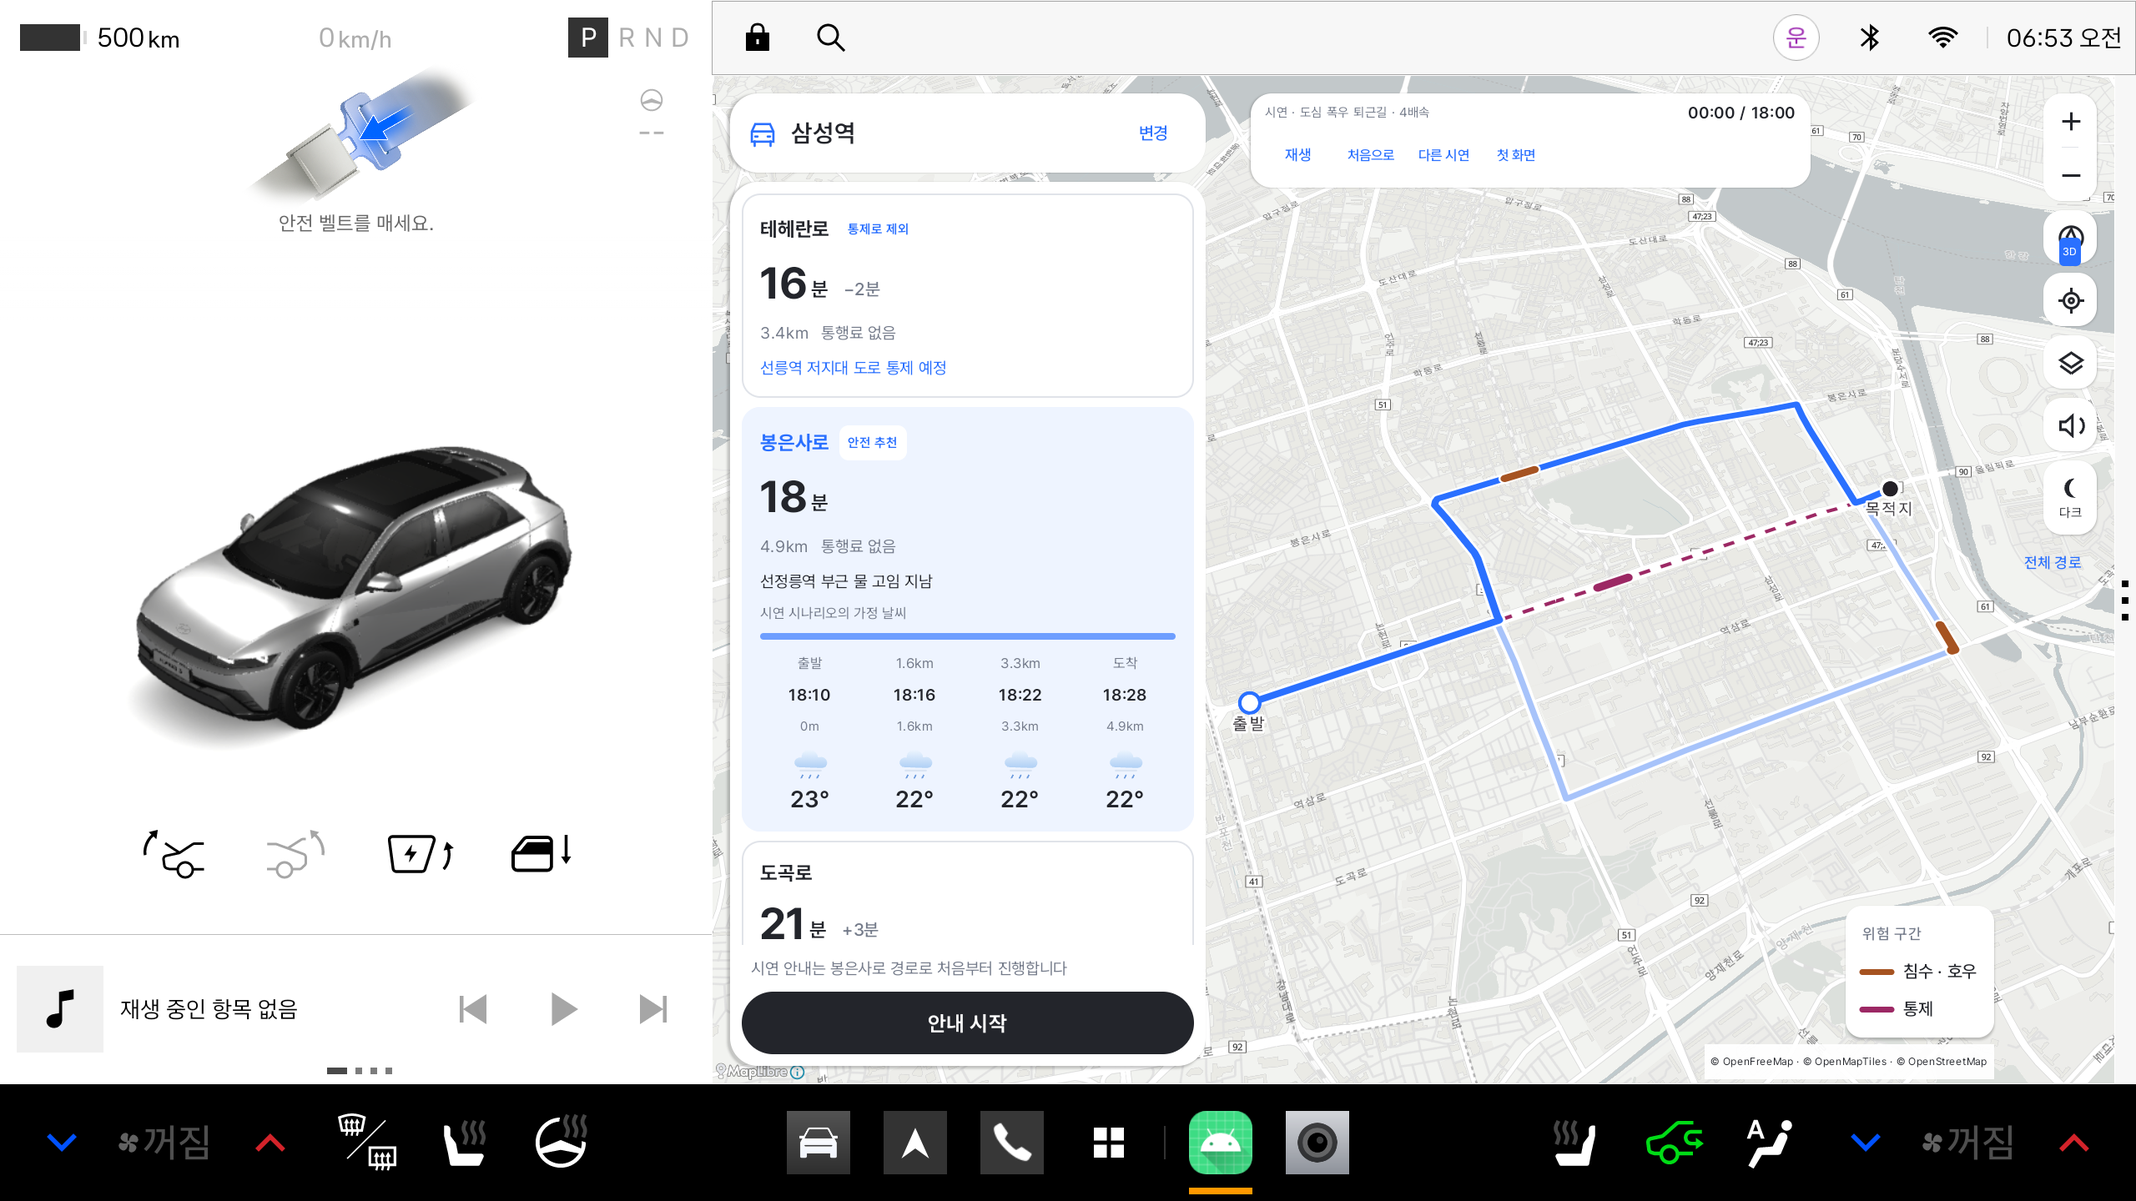
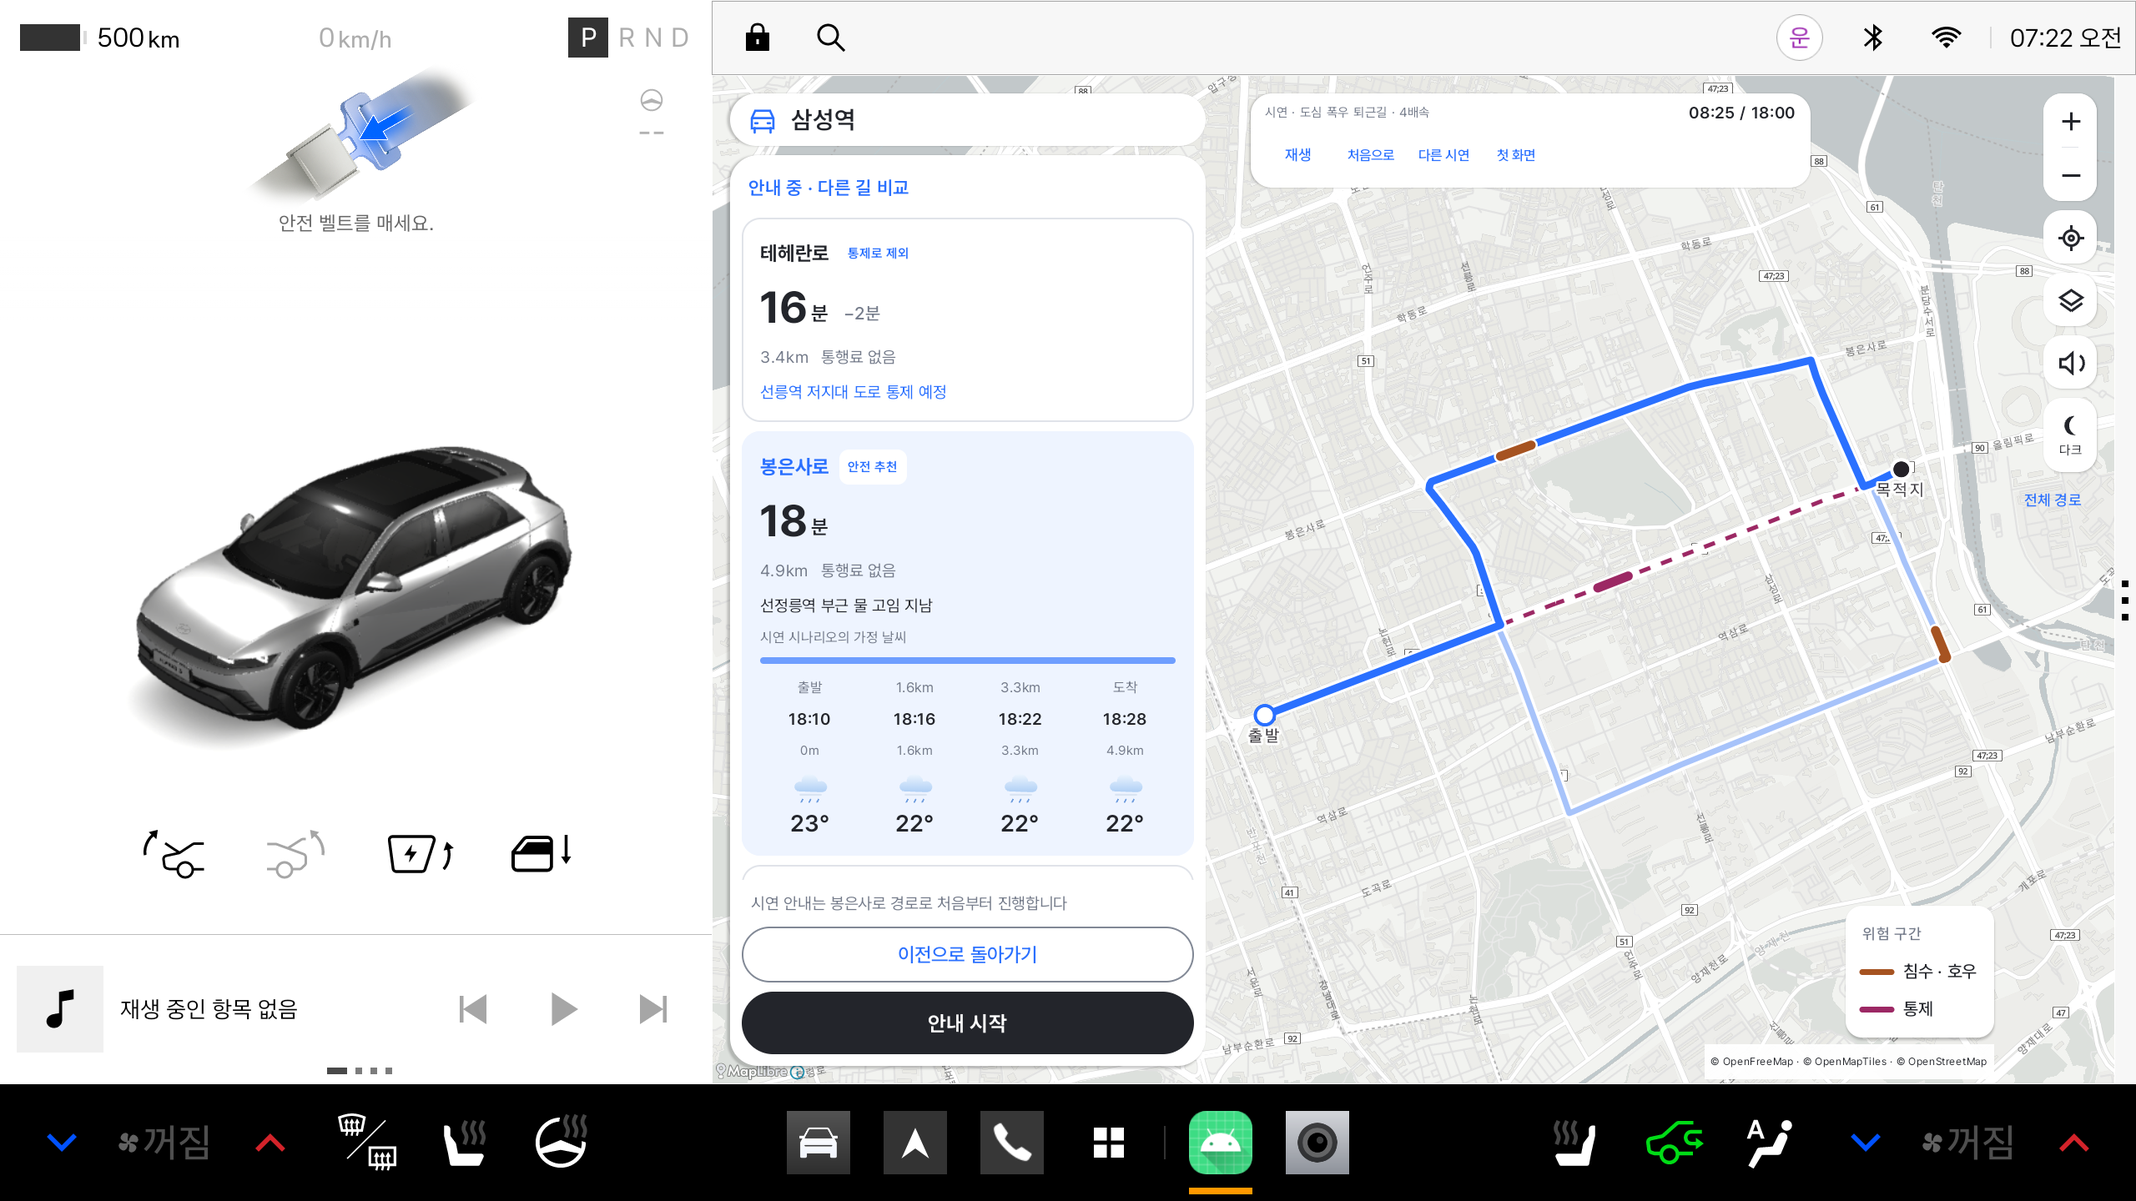
fix(ui): 다른 길 비교 복귀와 지도 시점 고정

diff --git a/app/src/main/java/com/example/pleosproj/ui/demo/DemoHost.kt b/app/src/main/java/com/example/pleosproj/ui/demo/DemoHost.kt
@@ -34,22 +34,35 @@ internal fun DemoHost(surface: MapSurface, session: DemoSession, onChooseScenari
     var selectedId by remember { mutableStateOf(session.comparison.selectedId) }
     var acknowledgedId by remember { mutableStateOf<String?>(null) }
     var confirmEnd by remember { mutableStateOf(false) }
+    var comparisonFromGuidance by remember(session) { mutableStateOf(false) }
+    var resumeAfterComparison by remember(session) { mutableStateOf(false) }
     val snackbar = remember { SnackbarHostState() }
     val scope = rememberCoroutineScope()
     val state = playback.guidance.let { if (it.alert?.hazardId == acknowledgedId) it.copy(alert = null) else it }
-    fun compare() { session.pause(); page = DemoPage.COMPARE }
-    fun start() { session.reset(); acknowledgedId = null; page = DemoPage.GUIDANCE; session.play() }
+    fun compare() {
+        comparisonFromGuidance = page == DemoPage.GUIDANCE
+        resumeAfterComparison = playback.playing
+        session.pause()
+        page = DemoPage.COMPARE
+    }
+    fun returnFromComparison() {
+        if (comparisonFromGuidance) {
+            page = DemoPage.GUIDANCE
+            if (resumeAfterComparison) session.play() else session.pause()
+        } else page = DemoPage.BRIEFING
+    }
+    fun start() { comparisonFromGuidance = false; session.reset(); acknowledgedId = null; page = DemoPage.GUIDANCE; session.play() }
     fun message(text: String) { scope.launch { snackbar.currentSnackbarData?.dismiss(); snackbar.showSnackbar(text) } }
     fun chooseScenario() { session.pause(); session.voice.release(); onChooseScenario() }
     BackHandler {
         when (page) {
             DemoPage.BRIEFING -> chooseScenario()
-            DemoPage.COMPARE -> { session.pause(); page = DemoPage.BRIEFING }
+            DemoPage.COMPARE -> returnFromComparison()
             DemoPage.GUIDANCE -> { session.pause(); confirmEnd = true }
             DemoPage.ENDED -> chooseScenario()
         }
     }
-    LaunchedEffect(playback.finished) {
+    LaunchedEffect(playback.finished, page) {
         // 도착 안내를 말하는 도중 음성을 꺼서 마지막 문장을 끊지 않는다.
         if (playback.finished && page == DemoPage.GUIDANCE) page = DemoPage.ENDED
     }
@@ -84,9 +97,16 @@ internal fun DemoHost(surface: MapSurface, session: DemoSession, onChooseScenari
                     DemoPage.COMPARE -> RouteCompareScreen(session.comparison.copy(selectedId = selectedId),
                         onSelect = { id -> if (session.comparison.candidates.any { it.id == id && !it.excluded }) selectedId = id },
                         onStart = { start() }, onFitRoutes = surface::fitRoute,
-                        mapControls = { MapControls(surface, !session.voice.enabled, session.voice::toggle) },
-                        onBack = { page = DemoPage.BRIEFING },
-                        toolbar = { DemoMapToolbar(session, onReset = { acknowledgedId = null; session.reset() }, onChooseScenario = ::chooseScenario, onExit = onExit) },
+                        mapControls = { MapControls(surface, !session.voice.enabled, session.voice::toggle, comparisonMode = true) },
+                        onBack = ::returnFromComparison,
+                        onContinue = if (comparisonFromGuidance) ::returnFromComparison else null,
+                        toolbar = { DemoMapToolbar(session,
+                            onReset = { acknowledgedId = null; resumeAfterComparison = false; session.reset() },
+                            onChooseScenario = ::chooseScenario, onExit = onExit,
+                            onTogglePlayback = {
+                                if (playback.playing) session.pause() else session.play()
+                                resumeAfterComparison = playback.playing
+                            }) },
                         startNotice = "시연 안내는 ${session.driveRouteName} 경로로 처음부터 진행합니다",
                         mapContent = { RouteCompareMap(surface, session.comparison.copy(selectedId = selectedId), it) })
                     DemoPage.GUIDANCE -> GuidanceScreen(state, voiceMuted = !session.voice.enabled,
@@ -146,7 +166,8 @@ private fun clock(seconds: Double): String {
 
 
 @Composable
-private fun DemoMapToolbar(session: DemoSession, onReset: () -> Unit, onChooseScenario: () -> Unit, onExit: () -> Unit) {
+private fun DemoMapToolbar(session: DemoSession, onReset: () -> Unit, onChooseScenario: () -> Unit, onExit: () -> Unit,
+    onTogglePlayback: () -> Unit = { if (session.playback.playing) session.pause() else session.play() }) {
     val playback = session.playback
     Surface(shape = androidx.compose.foundation.shape.RoundedCornerShape(18.dp), shadowElevation = 2.dp) {
         Column(Modifier.widthIn(max = 480.dp).padding(horizontal = 12.dp, vertical = 4.dp)) {
@@ -155,7 +176,7 @@ private fun DemoMapToolbar(session: DemoSession, onReset: () -> Unit, onChooseSc
                 Text("${clock(playback.seconds)} / ${clock(playback.durationSeconds.toDouble())}", fontSize = 14.sp, fontWeight = FontWeight.SemiBold)
             }
             Row(verticalAlignment = Alignment.CenterVertically, horizontalArrangement = Arrangement.spacedBy(4.dp)) {
-                TextButton(onClick = { if (playback.playing) session.pause() else session.play() }, contentPadding = PaddingValues(4.dp)) {
+                TextButton(onClick = onTogglePlayback, contentPadding = PaddingValues(4.dp)) {
                     Text(if (playback.playing) "일시정지" else "재생", fontSize = 13.sp)
                 }
                 TextButton(onClick = onReset, contentPadding = PaddingValues(4.dp)) { Text("처음으로", fontSize = 12.sp) }

diff --git a/app/src/main/java/com/example/pleosproj/ui/map/MapControls.kt b/app/src/main/java/com/example/pleosproj/ui/map/MapControls.kt
@@ -1,6 +1,7 @@
 package com.example.pleosproj.ui.map
 
 import androidx.compose.foundation.Canvas
+import androidx.compose.foundation.background
 import androidx.compose.foundation.layout.*
 import androidx.compose.foundation.shape.RoundedCornerShape
 import androidx.compose.material3.*
@@ -19,7 +20,8 @@ import androidx.compose.ui.unit.dp
 import androidx.compose.ui.unit.sp
 
 @Composable
-internal fun MapControls(surface: MapSurface, voiceMuted: Boolean, onToggleVoice: () -> Unit, modifier: Modifier = Modifier) {
+internal fun MapControls(surface: MapSurface, voiceMuted: Boolean, onToggleVoice: () -> Unit, modifier: Modifier = Modifier,
+    comparisonMode: Boolean = false) {
     var menu by remember { mutableStateOf<String?>(null) }
     Column(modifier, verticalArrangement = Arrangement.spacedBy(8.dp)) {
         Surface(shape = RoundedCornerShape(16.dp), shadowElevation = 2.dp) {
@@ -29,13 +31,13 @@ internal fun MapControls(surface: MapSurface, voiceMuted: Boolean, onToggleVoice
                 MapControl("지도 축소", "minus", joined = true) { surface.zoomBy(-1.0) }
             }
         }
-        Box {
+        if (!comparisonMode) Box {
             MapControl("지도 보기 방식 · ${surface.viewpoint.label}", "compass") { menu = "view" }
-            Surface(Modifier.align(Alignment.BottomCenter).offset(y = 2.dp), color = com.example.pleosproj.ui.theme.NavigationBlue,
-                contentColor = androidx.compose.ui.graphics.Color.White, shape = RoundedCornerShape(4.dp)) {
-                Text(when (surface.viewpoint) { MapViewpoint.OVERHEAD -> "3D"; MapViewpoint.NORTH_UP -> "N"; MapViewpoint.DRIVER -> "앞" },
-                    Modifier.padding(horizontal = 3.dp), fontSize = 9.sp)
-            }
+            // 배지는 시점 버튼의 터치를 가리지 않도록 비대화형 텍스트로 겹친다.
+            Text(when (surface.viewpoint) { MapViewpoint.OVERHEAD -> "3D"; MapViewpoint.NORTH_UP -> "N"; MapViewpoint.DRIVER -> "앞" },
+                Modifier.align(Alignment.BottomCenter).offset(y = 2.dp)
+                    .background(com.example.pleosproj.ui.theme.NavigationBlue, RoundedCornerShape(4.dp)).padding(horizontal = 3.dp),
+                color = androidx.compose.ui.graphics.Color.White, fontSize = 9.sp)
             DropdownMenu(expanded = menu == "view", onDismissRequest = { menu = null }) {
                 MapViewpoint.entries.forEach { value ->
                     DropdownMenuItem(text = { Text((if (surface.viewpoint == value) "✓  " else "    ") + value.label, fontSize = 17.sp) },

diff --git a/app/src/main/java/com/example/pleosproj/ui/compare/RouteCompareScreen.kt b/app/src/main/java/com/example/pleosproj/ui/compare/RouteCompareScreen.kt
@@ -57,7 +57,7 @@ fun RouteCompareScreen(
                     NavigationIcon(NavigationIconKind.CAR, Modifier.size(24.dp), colors.primary)
                     Text(state.destinationName, Modifier.weight(1f), fontSize = 21.sp, fontWeight = FontWeight.SemiBold,
                         maxLines = 1, overflow = TextOverflow.Ellipsis)
-                    onBack?.let { TextButton(onClick = it) { Text(if (onContinue != null) "돌아가기" else "변경", fontSize = 15.sp) } }
+                    if (onContinue == null) onBack?.let { TextButton(onClick = it) { Text("변경", fontSize = 15.sp) } }
                 }
             }
             state.adviceWhenAllRisky?.let {
@@ -79,15 +79,15 @@ fun RouteCompareScreen(
                         }
                     }
                     startNotice?.let { Text(it, Modifier.padding(horizontal = 8.dp), fontSize = 14.sp, color = colors.onSurfaceVariant) }
+                    onContinue?.let { action ->
+                        OutlinedButton(onClick = action, modifier = Modifier.fillMaxWidth().heightIn(min = 48.dp)) {
+                            Text("이전으로 돌아가기", fontSize = 17.sp)
+                        }
+                    }
                     Button(onClick = { selected?.let { onStart(it.id) } }, enabled = selected != null && inputEnabled,
                         modifier = Modifier.fillMaxWidth().heightIn(min = 54.dp), shape = RoundedCornerShape(32.dp),
                         colors = ButtonDefaults.buttonColors(containerColor = androidx.compose.ui.graphics.Color(0xFF23252B), contentColor = androidx.compose.ui.graphics.Color.White)) {
-                        Text(if (onContinue != null) "이 길로 안내 시작" else startActionLabel, fontSize = 18.sp, fontWeight = FontWeight.SemiBold)
-                    }
-                    onContinue?.let { action ->
-                        OutlinedButton(onClick = action, modifier = Modifier.fillMaxWidth().heightIn(min = 46.dp)) {
-                            Text("지금 길로 계속 가기", fontSize = 17.sp)
-                        }
+                        Text(startActionLabel, fontSize = 18.sp, fontWeight = FontWeight.SemiBold)
                     }
                 }
             }

diff --git a/app/src/main/java/com/example/pleosproj/ui/map/MapSurface.kt b/app/src/main/java/com/example/pleosproj/ui/map/MapSurface.kt
@@ -130,6 +130,7 @@ class MapSurface(context: Context, savedState: Bundle?) {
 
     fun render(state: RouteCompareState) {
         continuousMotion = false
+        followingPosition = false
         motion = null
         if (comparison?.candidates != state.candidates) cameraPending = true
         guidance = null
@@ -175,6 +176,8 @@ class MapSurface(context: Context, savedState: Bundle?) {
     }
 
     fun showViewpoint(value: MapViewpoint) {
+        // 비교 중에는 시점 변경을 막고 안내에서 선택했던 시점은 보존한다.
+        if (comparison != null) return
         viewpoint = value
         zoomAdjustment = 0.0
         resetCamera()
@@ -195,6 +198,7 @@ class MapSurface(context: Context, savedState: Bundle?) {
     fun toggleNight() { night = !night; reload() }
 
     fun fitRoute() {
+        if (comparison != null) { resetCamera(); return }
         val loaded = map ?: return
         followingPosition = false
         val points = comparison?.candidates?.flatMap { it.routeLine }
@@ -309,9 +313,9 @@ class MapSurface(context: Context, savedState: Bundle?) {
             fitCoordinates(loadedMap, state.candidates.flatMap { it.routeLine } +
                 state.candidates.flatMap { it.hazards }.map { it.position })
             val camera = loadedMap.cameraPosition
+            // 안내 시점과 별개로 비교는 항상 북쪽이 위인 평면 전체 경로로 표시한다.
             loadedMap.moveCamera(CameraUpdateFactory.newCameraPosition(CameraPosition.Builder(camera)
-                .tilt(when (viewpoint) { MapViewpoint.OVERHEAD -> 30.0; MapViewpoint.NORTH_UP -> 0.0; MapViewpoint.DRIVER -> 55.0 })
-                .bearing(if (viewpoint == MapViewpoint.NORTH_UP) 0.0 else camera.bearing).build()))
+                .tilt(0.0).bearing(0.0).build()))
             cameraPending = false
             return
         }

diff --git a/app/src/main/java/com/example/pleosproj/ui/navigation/NavigationFlowHost.kt b/app/src/main/java/com/example/pleosproj/ui/navigation/NavigationFlowHost.kt
@@ -129,10 +129,10 @@ internal fun NavigationFlowHost(surface: MapSurface, lifecycle: Lifecycle, parke
                     }
                     NavigationPage.COMPARE -> flow.comparison?.let { comparison ->
                         RouteCompareScreen(comparison, onSelect = flow::selectRoute, onStart = { id -> if (flow.comparingCurrent) flow.startComparedRoute(id) else flow.showBriefing(id) },
-                            onFitRoutes = surface::fitRoute, startActionLabel = "브리핑 보기",
+                            onFitRoutes = surface::fitRoute, startActionLabel = if (flow.comparingCurrent) "이 길로 안내 시작" else "브리핑 보기",
                             currentRemainingSeconds = flow.comparisonRemainingSeconds,
                             onContinue = if (flow.comparingCurrent) flow::continueGuidance else null,
-                            mapControls = { MapControls(surface, !flow.voiceEnabled, flow::toggleVoice) },
+                            mapControls = { MapControls(surface, !flow.voiceEnabled, flow::toggleVoice, comparisonMode = true) },
                             onBack = flow::back,
                             toolbar = { MapTripToolbar(flow, onDemo = { if (flow.guiding) confirmDemo = true else openDemo() }) },
                             inputEnabled = flow.parked == true,

diff --git a/docs/screenshots/ple-50/README.md b/docs/screenshots/ple-50/README.md
@@ -4,7 +4,13 @@
 
 | 파일 | 확인한 내용 |
 | --- | --- |
-| [rain-compare.png](rain-compare.png) | 비교에서도 4배속 안내만 있고 배속 선택 버튼이 없습니다. |
+| [rain-compare.png](rain-compare.png) | 안내 중 다른 길 비교의 평면 지도와 ‘안내 시작’ 위 ‘이전으로 돌아가기’ 버튼입니다. |
+| [winter-compare-return.png](winter-compare-return.png) | 겨울 15:45에서 들어온 비교 화면의 복귀 버튼·평면 지도·숨긴 시점 선택입니다. |
+| [winter-compare-night.png](winter-compare-night.png) | 확대·전체 경로·주야간 조작 후에도 평면 비교를 유지합니다. |
+| [winter-returned-guidance.png](winter-returned-guidance.png) | 15:45의 경고·위치·정지 상태와 원래 운전석 시점을 유지해 복귀합니다. |
+| [rain-returned-guidance.png](rain-returned-guidance.png) | 폭우 08:25의 이전 안내·경고에 복귀합니다. |
+| [live-compare-return.png](live-compare-return.png) | 실제 안내의 다른 길 비교에서도 복귀 버튼을 시작 버튼 위에 배치합니다. |
+| [live-returned-guidance.png](live-returned-guidance.png) | 실제 안내 복귀 시 기존 경로의 진행률을 유지합니다. |
 | [rain-start.png](rain-start.png) | 4배속 기본 재생과 진행 막대의 ‘눌러서 이동’ 안내입니다. |
 | [rain-jump-alert.png](rain-jump-alert.png) | 호우 항목 클릭으로 08:25, 위험 지점 약 200m 전으로 이동하고 경고·위치·날씨·다음 회전이 갱신됩니다. |
 | [rain-jump-night.png](rain-jump-night.png) | 야간에도 고정 4배속·장면 이동과 위험 경고·범례가 표시됩니다. |
@@ -16,3 +22,5 @@
 | [live-no-seek.png](live-no-seek.png) | 실제 안내에는 이동 안내가 없고 막대를 눌러도 현재 위치·진행률이 바뀌지 않습니다. |
 
 폭우 시연의 시계는 실제 약 7.1초 동안 00:08→00:36으로 진행해 4배속을 확인했습니다. 일시정지 후 경고 항목으로 이동하고 경고를 확인한 뒤 뒤로 이동·재진입하면 같은 경고가 다시 나타납니다. 재생 중 이동은 재생을 이어가고 일시정지 중 이동은 정지를 유지합니다.
+
+다른 길 비교에서 ‘이전으로 돌아가기’와 기기 뒤로 가기 모두 기존 안내로 복귀합니다. 정지 중 진입하면 같은 시각에서 정지하고, 재생 중 진입하면 비교 동안 멈췄다가 복귀 후 이어서 재생합니다. 비교는 기울기·방향을 고정하며 시점 선택을 숨기고, 복귀하면 기존 주행 시점을 복원합니다.

diff --git a/docs/ple-50-demo-seek.md b/docs/ple-50-demo-seek.md
@@ -10,6 +10,8 @@
 - 이동할 때 이전 경고 확인과 음성 판단 이력을 초기화합니다. 뒤로 이동해 같은 장면을 다시 재생할 수 있습니다.
 - 막대 맨 위로 이동하면 도착 화면으로 끝나고, ‘처음부터 다시 재생’으로 돌아올 수 있습니다. ‘처음으로’는 출발로 이동한 뒤 정지합니다.
 - 실제 주행에서는 클릭 이동과 ‘눌러서 이동’ 안내를 제공하지 않습니다.
+- 안내 중 ‘다른 길 보기’로 들어갔다면 ‘안내 시작’ 위의 ‘이전으로 돌아가기’로 기존 안내에 복귀합니다. 시연 위치·경고 확인 상태를 유지하며 재생 중이었다면 이어서 재생하고 정지 중이었다면 정지를 유지합니다. 기기 뒤로 가기도 같습니다. ‘안내 시작’은 안내 문구대로 처음부터 다시 시작하는 별도 동작입니다.
+- 경로 비교는 안내에서 쓰던 시점과 별개로 기울기 0도·북쪽 위의 평면으로 고정합니다. 비교 중 시점 선택은 숨기며 확대·이동·전체 경로·지도 종류·주야간 조작에도 각도를 유지합니다. 안내로 돌아오면 원래 주행 시점을 다시 사용합니다.
 
 ## 구현 범위
 
